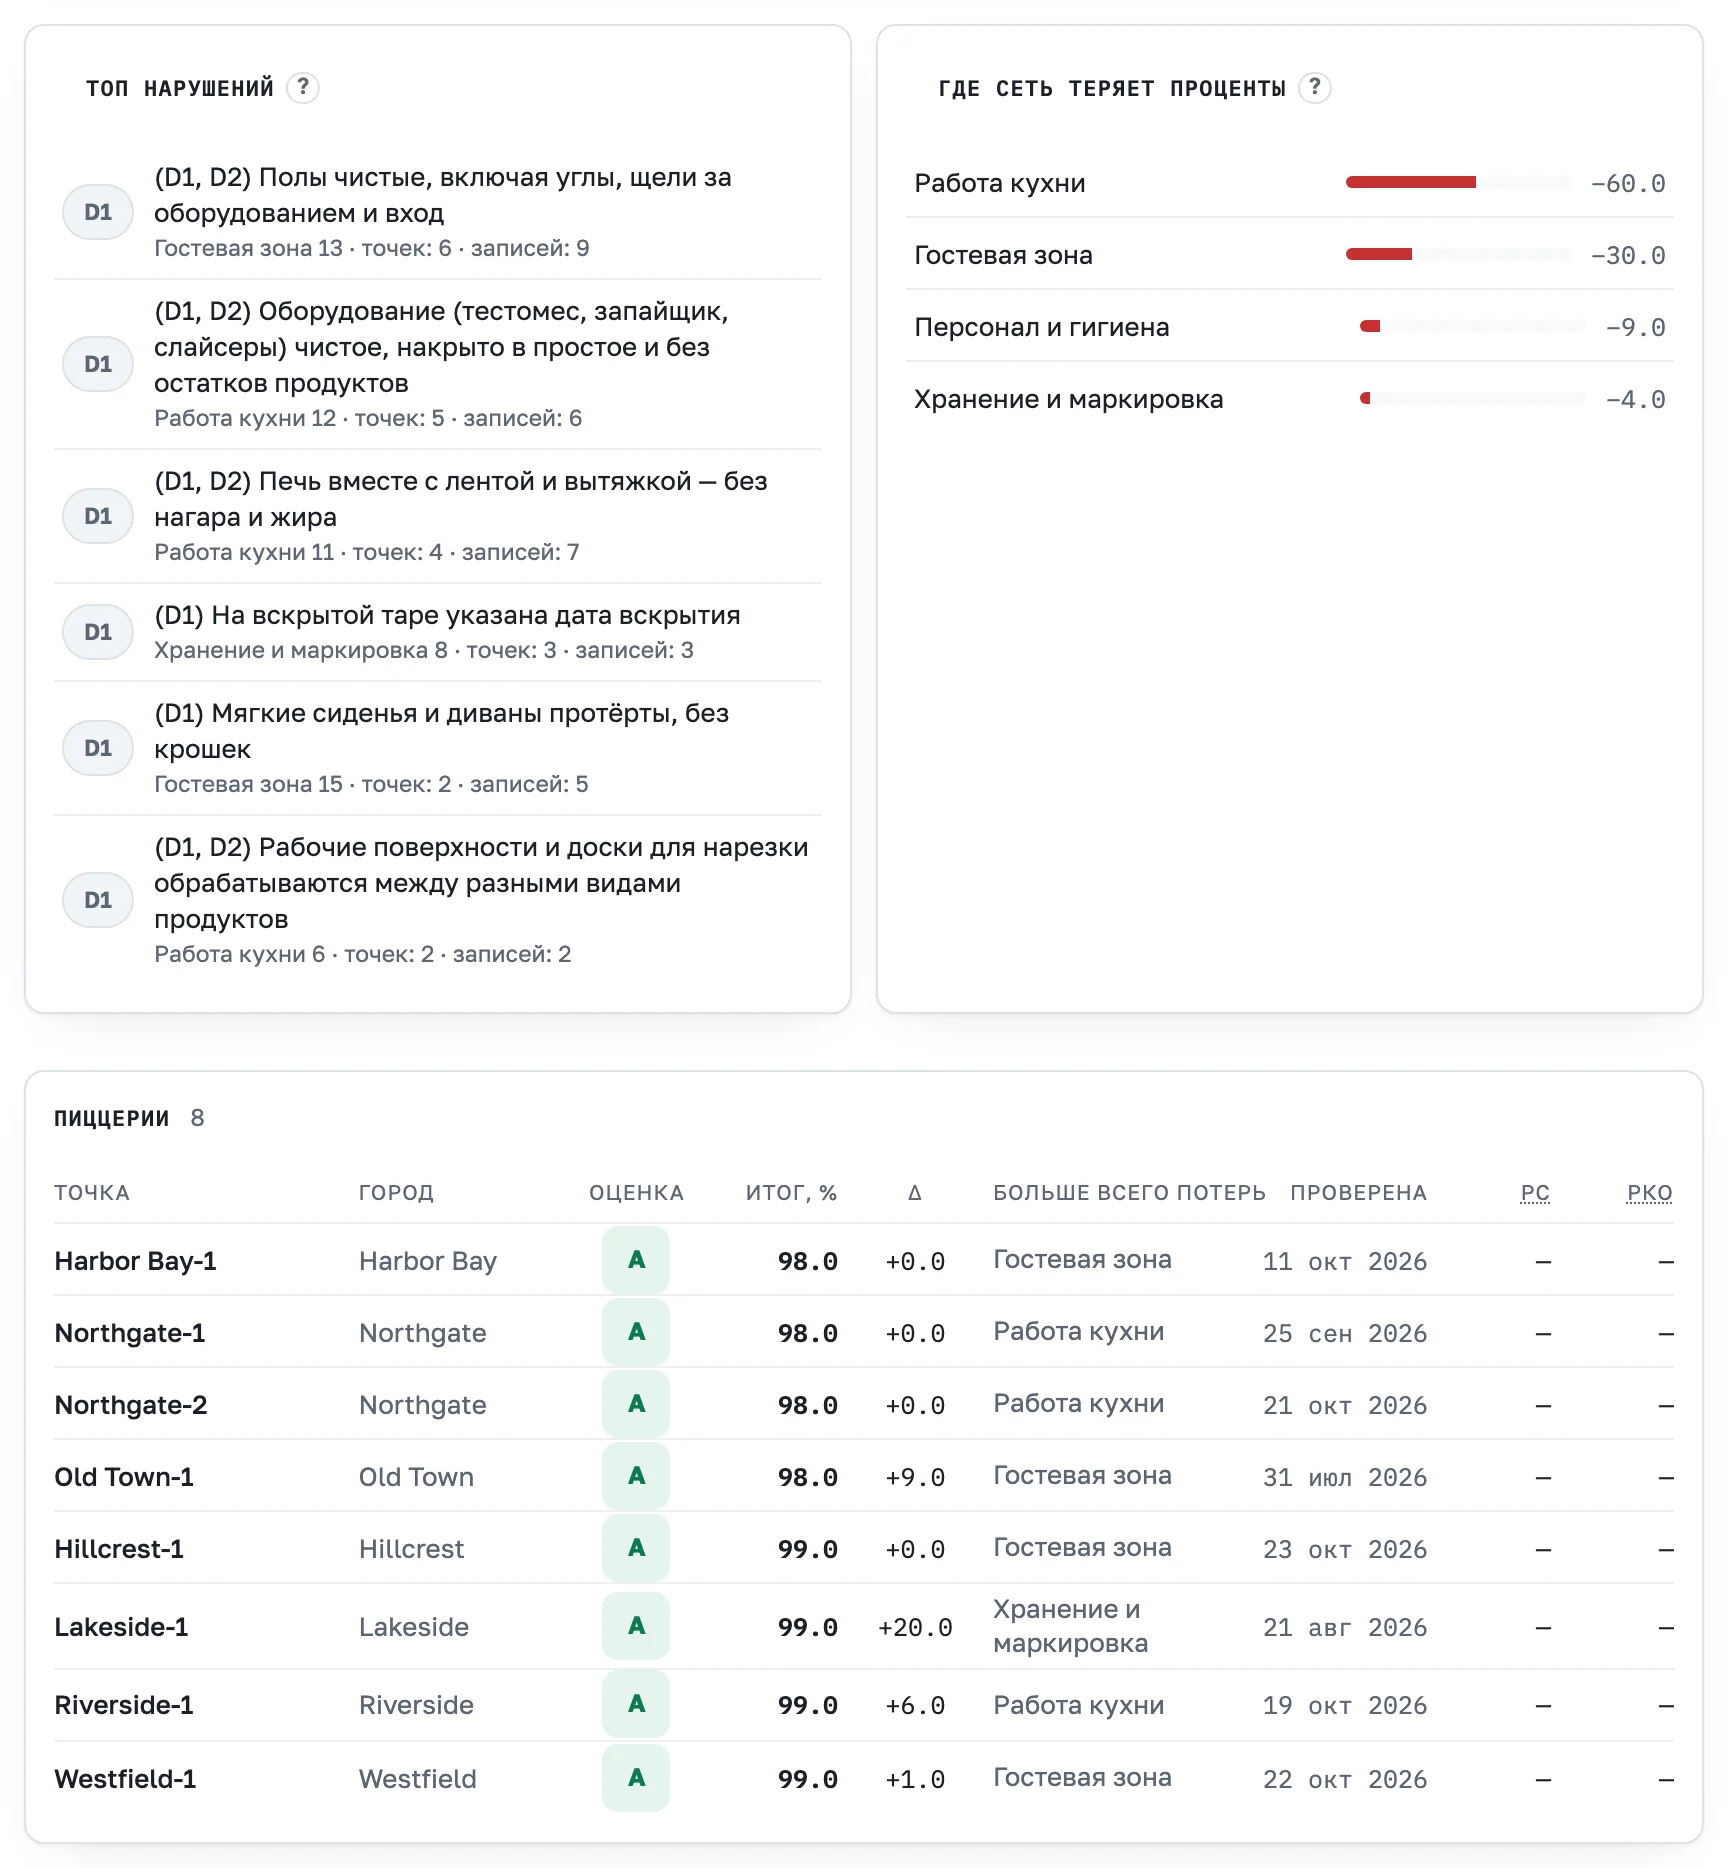
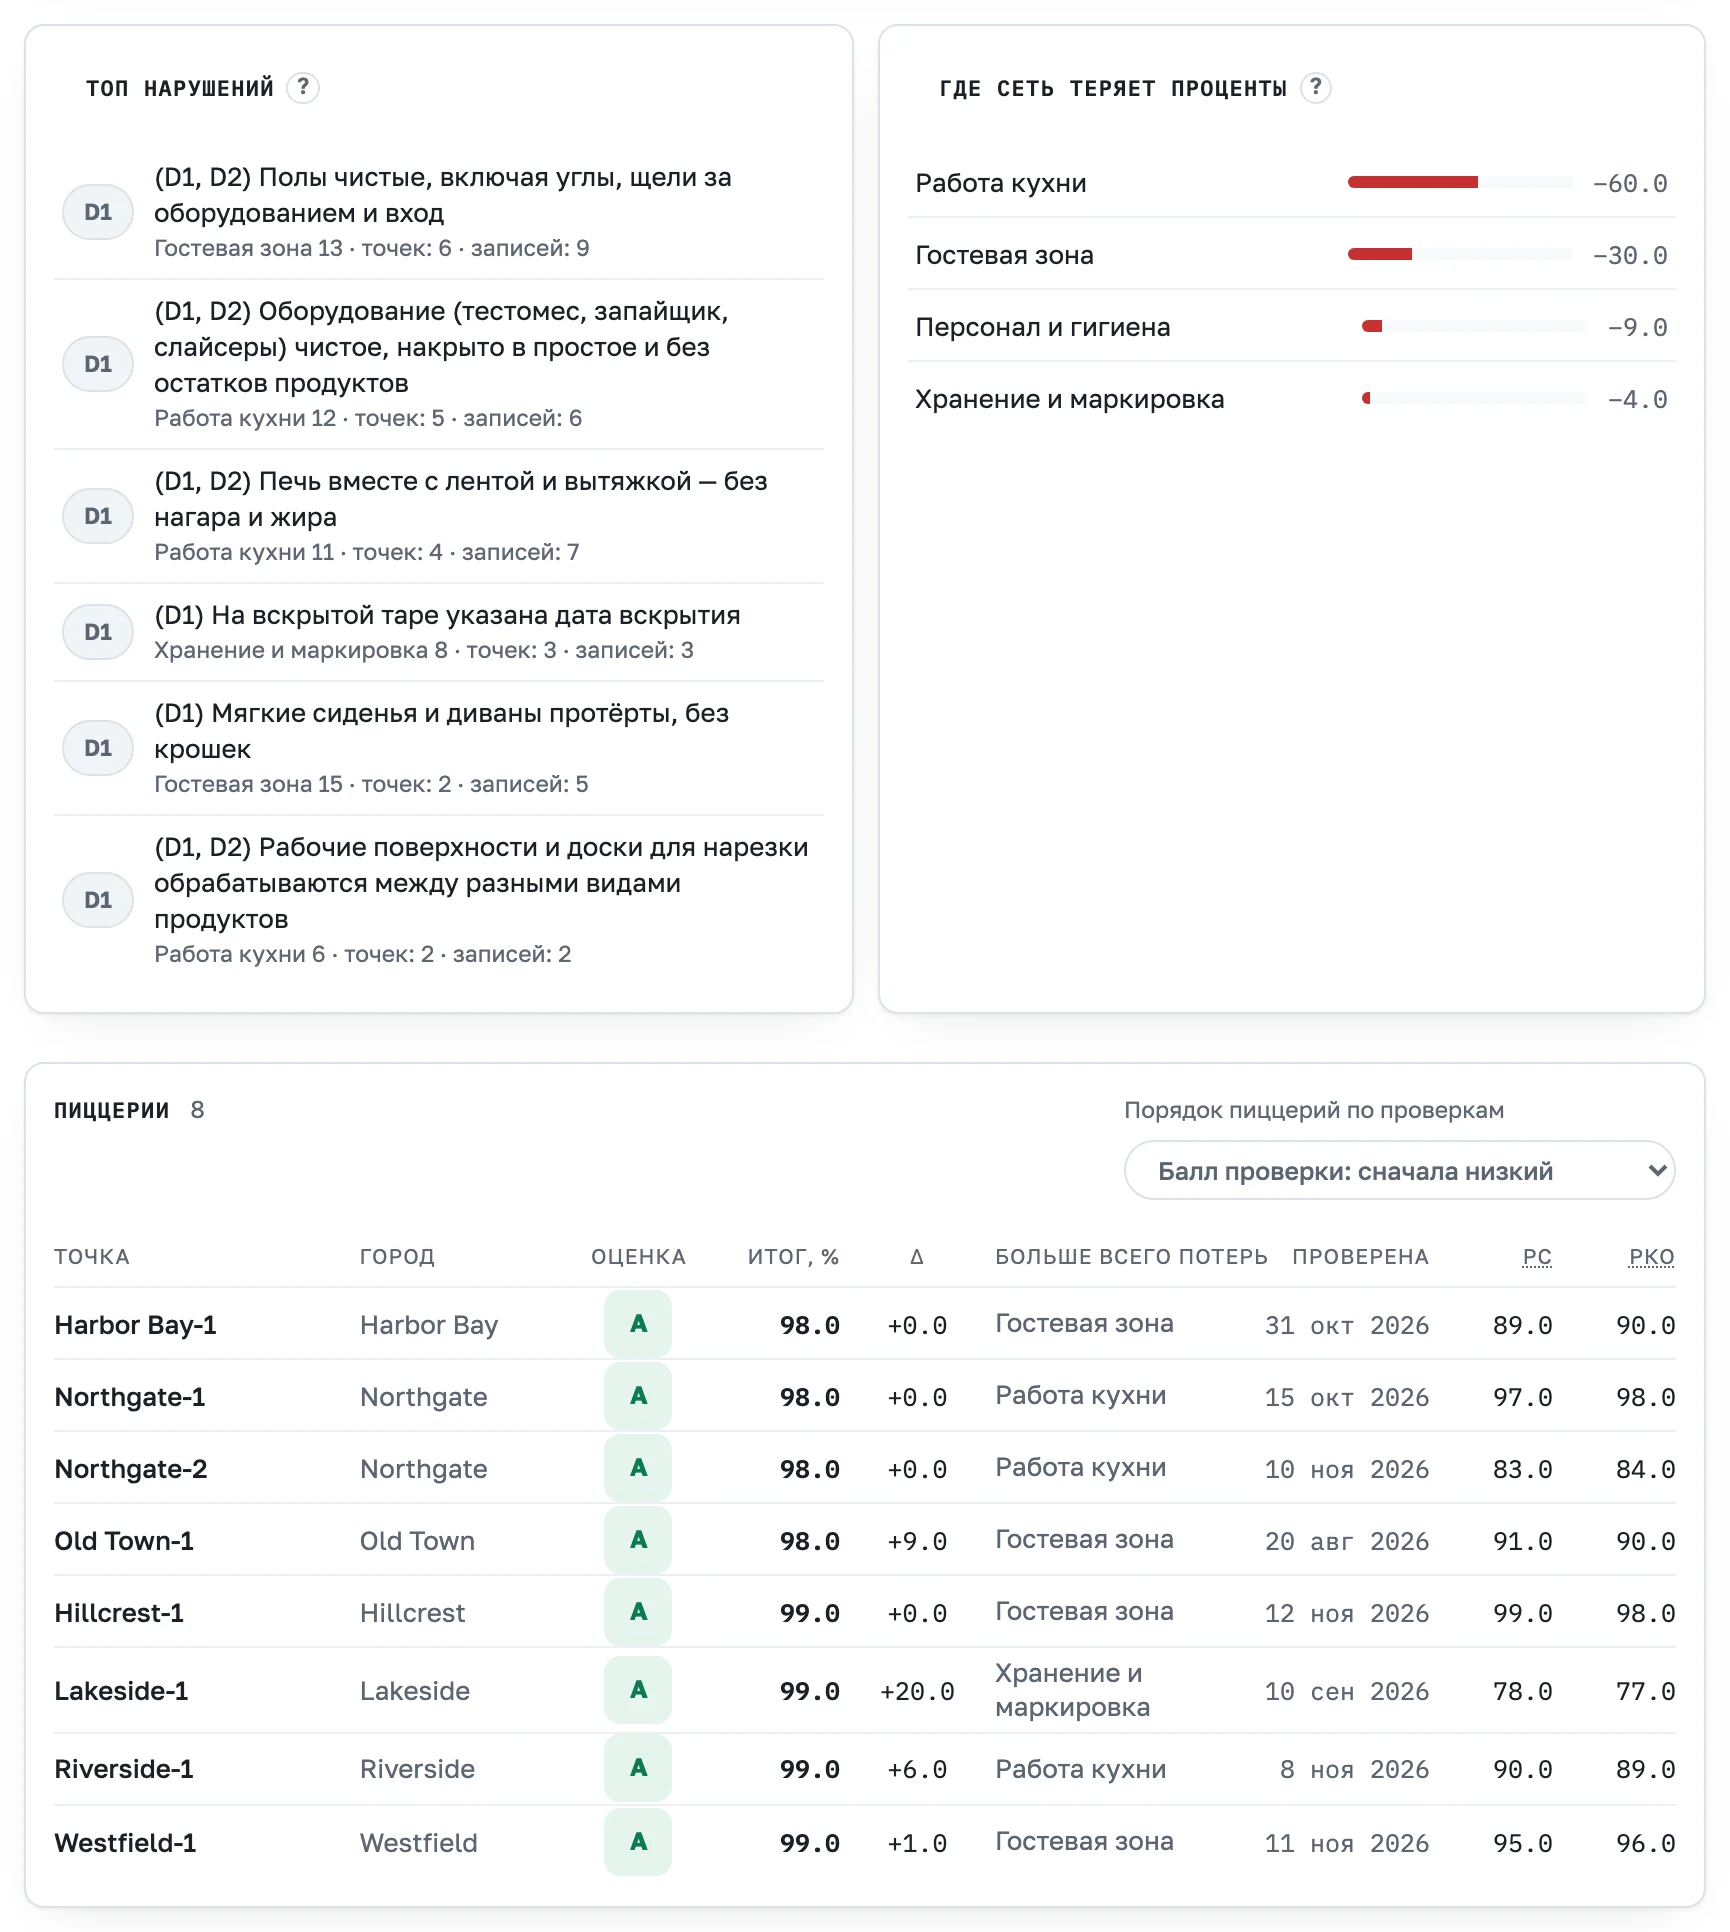
docs(landing): пересъёмка network и pizzerias после D751; частичная съёмка LANDING_SHOTS_ONLY

diff --git a/tools/landing_shots.py b/tools/landing_shots.py
@@ -3,6 +3,7 @@
     make landing-shots                       # открытое демо, ru и en
     LANDING_SHOTS_BASE=http://127.0.0.1:8080 make landing-shots
     LANDING_SHOTS_WALK_BASE=<превью-стенд> make landing-shots
+    LANDING_SHOTS_ONLY=network,pizzerias make landing-shots   # только эти снимки
 
 Мини-апп обхода в открытом демо английский для любого браузера (D656), поэтому русские
 снимки обхода (`walk`, `match`) берутся со стенда, где задан `WEB_WALK_PREVIEW_CHAT_RU`
@@ -237,12 +238,24 @@ SHOTS: list[tuple[str, dict[str, int], Callable[[Page, str], Path]]] = [
 ]
 
 
+#: Снять только эти снимки (имена через запятую: `network,pizzerias`); пусто — все.
+ONLY = {x.strip() for x in os.environ.get("LANDING_SHOTS_ONLY", "").split(",") if x.strip()}
+
+
+def _wanted(shooter: Callable[[Page, str], Path]) -> bool:
+    return not ONLY or shooter.__name__.removeprefix("shot_") in ONLY
+
+
 def main() -> int:
     written: list[Path] = []
+    if ONLY and not any(_wanted(s) for _, _, s in SHOTS):
+        raise SystemExit(f"LANDING_SHOTS_ONLY: нет таких снимков — {sorted(ONLY)}")
     with sync_playwright() as pw:
         browser = pw.chromium.launch()
         for lang in LANGS:
             for role, viewport, shooter in SHOTS:
+                if not _wanted(shooter):
+                    continue
                 context = browser.new_context(
                     viewport=viewport, device_scale_factor=SCALE, locale=LOCALES[lang]
                 )
@@ -253,8 +266,11 @@ def main() -> int:
                 finally:
                     context.close()
         browser.close()
-    (OUT / "sizes.json").write_text(
-        json.dumps(SIZES, indent=2, sort_keys=True) + "\n", encoding="utf-8"
+    sizes_file = OUT / "sizes.json"
+    # Частичная пересъёмка не стирает размеры остальных снимков.
+    old = json.loads(sizes_file.read_text(encoding="utf-8")) if ONLY and sizes_file.exists() else {}
+    sizes_file.write_text(
+        json.dumps({**old, **SIZES}, indent=2, sort_keys=True) + "\n", encoding="utf-8"
     )
     for path in written:
         print(

diff --git a/CHANGELOG.md b/CHANGELOG.md
@@ -1,5 +1,6 @@
 # Журнал изменений
 
+- 12.11.2026 (D751): снимки лендинга `network` и `pizzerias` пересняты после плотного верха; `tools/landing_shots.py` умеет снимать выбранные — `LANDING_SHOTS_ONLY=network,pizzerias make landing-shots`.
 - 12.11.2026 (D751): «Качество» — плотный верх (владелец: «очень много воздуха»). Один заголовок страницы: надпись «Качество · сеть» и второй крупный заголовок «Все страны» убраны (что выбрано, видно в фильтре «Страна»), оба «?» (как читать таблицу, свежесть данных) стоят у заголовка. «Страна», «Период ‹ ›» и подпись «Считается по месяцам…» — одной строкой без рамки (общий `strip`), шапка блока таблицы — общий `block_bar`. Функции и тексты прежние. Проверено: тесты «Качества» и снимки сети 1440 и 390 px.
 - 12.11.2026 (D751): плотный верх экранов статистики — «Проверки», «Рейтинги», «Страны», «Обучение» (владелец: «пиздец сверху, очень много воздуха»). Заголовок страницы 22 px и поля колонки 12 px (было 28 px и 24); на «Рейтингах» фильтры — одна строка без рамки-карточки «Срез · Период ‹ › · Мои страны ▾», а «Мои страны / Все страны» и «Выбрать мои страны…» стали выпадающим меню в этой строке, а не отдельным рядом. Блок «История проверок» (на «Рейтинги → Проверки» и на «Странах»): шапка несёт «?» с пояснениями (абзацы над формой ушли), сводку «Проверок · Средний результат» и выбор группировки и года, который применяется сразу (без кнопки «Показать»; без скриптов кнопка осталась), графики — без вложенной карточки. На графике «Динамика результатов» у точки — подсказка (наведение, нажатие на телефоне, фокус с клавиатуры): дата, результат и проверки дня — пиццерия ссылкой на проверку, страна, вид; у точки-сводки до 8 строк (на телефоне 5) и «и ещё N». Данные — тем же запросом, что и точки (`Day.items`, первые 8 проверок дня), отдельного запроса нет. Общий кусок — `templates/_compact.html` (`strip`, `scope_menu`, `block_bar`) и раздел «Плотный верх (D751)» в `decimus-web.css`; «Качество» не тронуто, оно берёт общий заголовок страницы. Токены forma не менялись. Тесты базы `src/db` не прогонялись (нет базы): запрос `_DAYS_SQL` проверен только чтением, `tests/test_db_inspection_timeline.py` ждёт прогона с базой.
 - 12.11.2026 (D750, подготовлено): «Качество» — левый столбец стран убран, над таблицей один блок фильтров: «Страна» (выпадающий список «Все страны» + страны охвата) и «Период» (тот же календарь «с — по» со стрелками, что у «Проверок»; по умолчанию текущий месяц, `?month=` по-прежнему открывает месяц). Период длиннее месяца считается по целым месяцам, которые он задевает (подпись у календаря, не больше 12): показатели пиццерии — среднее её месяцев, заказы и выручка — суммы, доли заказов — от сумм, страна — тем же путём от усреднённых значений; движение — к предыдущему периоду той же длины. Свёртка — `quality.fold_months`, `quality_data.fold_periods`; формулы не менялись. Удалены тексты левого столбца и выбора месяца. Не раскатано.

diff --git a/docs/19-user-materials.md b/docs/19-user-materials.md
@@ -21,7 +21,7 @@
 под выдуманными данными, без подмен. Русские `walk` и `match` — со стенда, где мини-апп открыт на русскую проверку
 (`LANDING_SHOTS_WALK_BASE`, превью-стенд §8.22): открытое демо с D656 отдаёт обход по-английски
 для любого браузера. **Сверка после D656 не сделана:** демо насыщено (ОСБ, оценки площадок, партнёры,
-люди), `network` и `pizzerias` на нём теперь выглядят иначе — пересъёмка после раскатки демо. **После D751** (плотный верх, 12.11.2026) `pizzerias` и `network` изменились ещё раз — шапка страницы ниже и компактнее, блок «История проверок» с управлением в шапке; пересъёмка тоже после раскатки демо, не сделана. Правка этих экранов — повод пересъёмки:
+люди), `network` и `pizzerias` на нём теперь выглядят иначе — пересъёмка после раскатки демо. **После D751** (плотный верх, 12.11.2026) `pizzerias` и `network` пересняты 12.11.2026 с открытого демо: `LANDING_SHOTS_ONLY=network,pizzerias make landing-shots` (частичная пересъёмка не стирает размеры остальных в `sizes.json`). Правка этих экранов — повод пересъёмки:
 
 | Снимок | Экран |
 |---|---|
